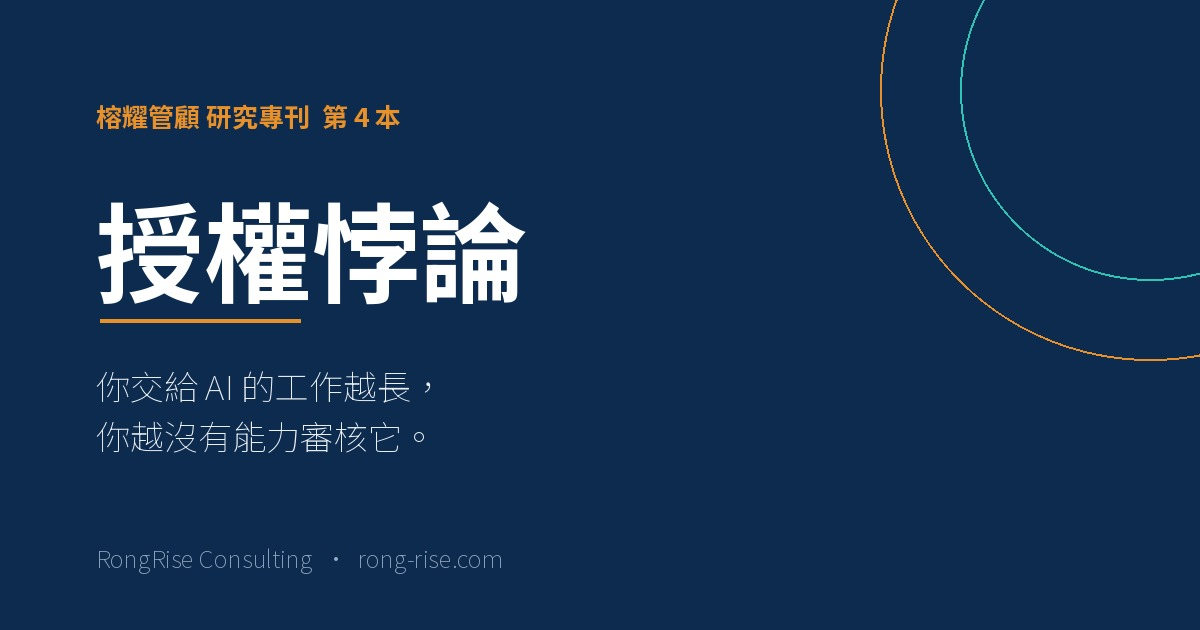
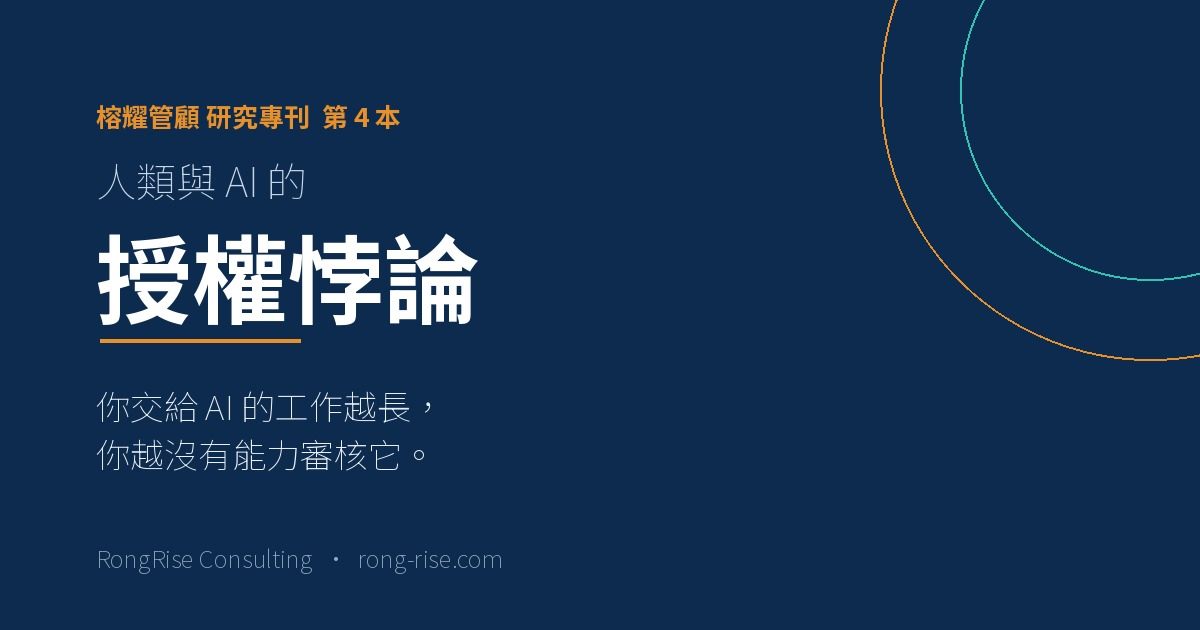
research: 授權悖論圖表改為 HTML 響應式長條（手機不再橫向滑動）

Changed region(s): [[0.0617, 0.2714, 0.4317, 0.754]]

diff --git a/public/research/authorization-paradox/index.html b/public/research/authorization-paradox/index.html
@@ -3,9 +3,9 @@
 <head>
 <meta charset="UTF-8">
 <meta name="viewport" content="width=device-width, initial-scale=1.0">
-<title>授權悖論｜你交給 AI 的工作越長，你越驗不動它 — 榕耀管顧研究專刊</title>
-<meta name="description" content="榕耀管顧研究專刊系列第 4 本。AI 能完成的任務每七個月翻一倍，人的審核能力沒有對應的變化。本書用 65 筆可查證來源，說明授權悖論的三層結構、審核失效的實驗證據，以及授權四級與三層審核的操作框架。">
-<meta property="og:title" content="授權悖論｜榕耀管顧研究專刊">
+<title>人類與 AI 的授權悖論｜你交給 AI 的工作越長，你越驗不動它 — 榕耀管顧研究專刊</title>
+<meta name="description" content="榕耀管顧研究專刊系列第 4 本。本書談的不是系統權限，也不是法律代理，而是「人類把工作交給 AI 之後，還能不能驗證它」。用 65 筆可查證來源說明三層結構、審核失效的實驗證據，並提出授權四級與三層審核框架。">
+<meta property="og:title" content="人類與 AI 的授權悖論｜榕耀管顧研究專刊">
 <meta property="og:description" content="你交給 AI 的工作越長，你越沒有能力審核它。榕耀管顧研究專刊系列第 4 本。">
 <meta property="og:image" content="https://rong-rise.com/research/authorization-paradox/og-image.jpg">
 <meta property="og:type" content="article">
@@ -243,7 +243,33 @@ tr:hover td { background: rgba(232,145,42,0.04); }
 .exhibit tbody tr:hover td { background:rgba(232,145,42,0.06); }
 .exhibit .source { font-size:12.5px; color:#8a8a8a; margin:10px 0 0; line-height:1.65; }
 
-/* 圖表：HTML 長條（手機自動換行，不需要橫向滑動） */
+/* ===== Executive Summary ===== */
+.h1-pre { display:block; font-size:clamp(15px,2.2vw,20px); font-weight:500; color:rgba(255,255,255,0.72); letter-spacing:2px; margin-bottom:10px; }
+
+.exec-summary { background:#FFFFFF; border:1px solid #E4DED2; border-top:4px solid var(--navy);
+  border-radius:10px; padding:30px 30px 24px; margin:8px 0 36px; box-shadow:0 2px 10px rgba(13,43,78,0.06); }
+.exec-summary .es-kicker { font-size:11px; letter-spacing:3px; font-weight:700; color:var(--gold); }
+.exec-summary h2 { font-family:'Noto Serif TC',serif; font-size:clamp(22px,3.4vw,28px); color:var(--navy);
+  margin:8px 0 10px; letter-spacing:0.5px; }
+.exec-summary .es-lead { font-size:15.5px; line-height:1.85; color:#2f2f2f; margin:0 0 6px;
+  padding-left:14px; border-left:3px solid var(--gold); }
+.exec-summary .es-h3 { font-size:14px; font-weight:700; color:var(--navy); margin:24px 0 8px;
+  letter-spacing:0.5px; }
+.exec-summary .es-h3 span { font-weight:400; color:#9a9384; font-size:12.5px; margin-left:6px; }
+.exec-summary .es-h3-pov { color:#A86414; }
+.es-list { margin:0; padding-left:0; list-style:none; }
+.es-list li { position:relative; padding-left:20px; margin:9px 0; font-size:14.5px; line-height:1.8; color:#3a3a3a; }
+.es-list li::before { content:"▍"; position:absolute; left:0; top:0; color:var(--gold); font-size:13px; }
+.es-list li strong { color:var(--navy); }
+.es-list-pov li::before { color:var(--teal); }
+.exec-summary .es-foot { font-size:12.5px; color:#8a8a8a; margin:18px 0 0; padding-top:14px;
+  border-top:1px dashed #E4DED2; }
+
+/* ===== 名詞定義 ===== */
+.def-box { background:#FFF9EF; border:1px solid #F0DFC4; border-left:4px solid var(--gold);
+  border-radius:8px; padding:18px 20px; margin:20px 0 26px; }
+.def-box .def-title { font-size:13px; font-weight:700; color:#A86414; letter-spacing:1px; margin-bottom:6px; }
+.def-box p { margin:0; font-size:14.5px; line-height:1.8; color:#3a3a3a; }
 .bars { margin: 18px 0 6px; }
 .bar-row { display:grid; grid-template-columns: 168px 1fr 96px; align-items:center; gap:12px; margin:11px 0; }
 .bar-label { font-size:13.5px; color:#3f3f3f; line-height:1.45; }
@@ -278,7 +304,7 @@ tr:hover td { background: rgba(232,145,42,0.04); }
 <header class="cover">
   <div class="series-badge">榕耀管顧研究專刊系列 第 4 本</div>
   <div class="kicker">RongRise Research · 2026</div>
-  <h1>授權悖論</h1>
+  <h1><span class="h1-pre">人類與 AI 的</span>授權悖論</h1>
   <p class="subtitle">你交給 AI 的工作越長、越難，你越沒有能力審核它。這不是使用方式的問題，是兩條曲線的斜率問題。</p>
   <div class="meta">
     <span>2026 年 10 月</span><span>·</span><span>約 10,500 字</span><span>·</span><span>閱讀時間 30 分鐘</span>
@@ -293,52 +319,55 @@ tr:hover td { background: rgba(232,145,42,0.04); }
 <main class="content">
   <div class="container">
 
+    <section class="exec-summary">
+      <div class="es-kicker">EXECUTIVE SUMMARY</div>
+      <h2>三十秒讀完這本書</h2>
+      <p class="es-lead">AI 能做的事越深，人越沒有能力驗證它。這不是使用方式的問題，是兩條能力曲線的斜率問題。解法不是限制 AI，而是把審核從「一個人的簽核」，換成「多來源的對抗性審核」。</p>
+
+      <h3 class="es-h3">五個判斷</h3>
+      <ul class="es-list">
+        <li><strong>授權越深，可驗證性越低。</strong>你交出去的工作長度，已經超過你自己從頭做完它所需要的時間；而它變強的地方，正好是你原本不知道答案的題目。</li>
+        <li><strong>兩條曲線的斜率差一個量級。</strong>AI 能完成的任務長度約每 7 個月翻一倍（2024 年起估計 88.6 天）；人的工作記憶約 4 個組塊、行為吞吐約每秒 10 bit，二十年沒有量級變化。</li>
+        <li><strong>人會跟著錯，方向可預測。</strong>44 位受過 20 小時 AI 素養訓練的醫師，收到含錯建議後診斷正確率 84.9% → 73.3%；AI 解釋錯誤時人的正確率 35%，比不給解釋的 49% 更低。</li>
+        <li><strong>產出變好，不等於能力變好。</strong>133 位專利律師三個月實驗：AI 期間草稿品質 +0.38 SD；移除 AI 後，資深 +0.45 SD、資淺 −0.03 SD。</li>
+        <li><strong>最大風險是不知道自己超出範圍。</strong>65% 企業遇過代理越界，只有 32% 能在數分鐘內圍堵、34.2% 在行動當下檢查授權、46% 查不出近 30 天完整軌跡。</li>
+      </ul>
+
+      <h3 class="es-h3 es-h3-pov">我們的三個觀點<span>（本書原創，非引用）</span></h3>
+      <ul class="es-list es-list-pov">
+        <li><strong>審核有三種成本，組織只投資第一種。</strong>讀懂、查證、否決。前兩種靠資料治理，第三種靠制度設計；多數簽核失效不是看不懂，是沒有人願意付出否決的代價。</li>
+        <li><strong>授權該用「能不能回頭」分級，不是用金額或部門。</strong>L1 建議、L2 可逆執行、L3 不可逆執行、L4 對外代表。同一家公司可以對 L1 完全放手、對 L4 一律人工，兩者不衝突。</li>
+        <li><strong>「診斷而不執行」是判斷力斷代的機制。</strong>新人看得出問題，卻沒有動手改對的練習；AI 代勞掉的正好是後半段。於判斷力只長在原本就有底子的人身上。</li>
+      </ul>
+
+      <h3 class="es-h3">如果只有五分鐘，做這三件事</h3>
+      <ol class="es-list">
+        <li>把公司所有 AI 動作列成一張表，用授權四級標一遍。</li>
+        <li>挑一個 L3 或 L4 的動作，實際演練一次回復，並計時。</li>
+        <li>在 AI 產出的交付格式加一欄「依據」，空白的不採用。</li>
+      </ol>
+
+      <p class="es-foot">以下章節依序展開證據、制度實驗與適用邊界；完整版文末可下載 19 頁 PDF。</p>
+    </section>
+
     <div class="method-note">
       <strong>這本書怎麼寫的</strong>
       <p>本書的材料分三層。第一層是可查證的公開研究與監理文件，每一項數字後面都附機構與日期，完整清單見書末。第二層是 2026 年下半年企業與政府的真實事故，用在需要說明「這件事已經發生」的地方。第三層是榕耀管顧自己的觀察與推論，會在句子裡標明，不與前兩層混用。</p>
       <p>有些題目目前沒有可靠答案。遇到這種地方，本書不會硬給結論，而是把問題留在章末。讀者如果發現某個數字與你手上的版本不同，請以原始來源為準，並歡迎告訴我們。</p>
     </div>
 
-    <h2 class="section-title">執行摘要：五個核心判斷</h2>
-    <p class="section-subtitle">如果只讀一頁，讀這五段。</p>
-
-    <div class="judgment">
-      <div class="judgment-num">01</div>
-      <h3>授權的深度與可審核性，是往反方向走的。</h3>
-      <p>你交給 AI 的任務越長、越複雜、越接近「沒有標準答案」的判斷題，你越沒有能力檢查它做對還是做錯。過去 AI 做的是你已知答案的事，這一類你驗得動。現在它開始做你原本不知道答案的事，這一類只能看結果。而結果來得慢、錯了不能回頭。</p>
-    </div>
-
-    <div class="judgment">
-      <div class="judgment-num">02</div>
-      <h3>兩條曲線的斜率差了一個量級，而且差距還在擴大。</h3>
-      <p>研究機構 METR 追蹤前沿模型能獨立完成的任務長度，2019 年以來大約每七個月翻一倍；2024 年之後的估計縮短到 88.6 天。人類這一側沒有對應的變化：工作記憶的專注焦點平均約四個組塊，行為的資訊吞吐量約每秒 10 bit。這不是誰不努力，是兩條線的斜率本來就不一樣。</p>
-    </div>
-
-    <div class="judgment">
-      <div class="judgment-num">03</div>
-      <h3>審核失效已經有實驗數據，偏誤的方向是「人傾向相信 AI」。</h3>
-      <p>一項隨機臨床試驗找來 44 位受過 20 小時 AI 素養訓練的醫師。收到含錯的模型建議後，診斷推理正確率從 84.9% 掉到 73.3%，首選診斷從 90.5% 掉到 76.1%。另一項研究發現，當 AI 的解釋是錯的，人的正確率只剩 35%，比完全不給解釋的 49% 還低。解釋本身會變成一種說服力。</p>
-    </div>
-
-    <div class="judgment">
-      <div class="judgment-num">04</div>
-      <h3>制度可以放大審核能力，但目前多數機制還沒有被證明有效。</h3>
-      <p>法規端最具體的是歐盟 AI 法第 14 條：高風險系統必須能被自然人有效監督，條文甚至點名「自動化偏誤」。但實證偏悲觀。大型語言模型自己當評審，成對偏好的結果平均有 13.6% 會翻轉；119 位專業審計師在審核自動化產出時，投入時間明顯較少、揪錯效果也較差。要求「有人監督」寫得出來，讓監督真的發生是另一件事。</p>
-    </div>
-
-    <div class="judgment">
-      <div class="judgment-num">05</div>
-      <h3>真正的風險不是 AI 超出範圍，是你不知道自己超出了範圍。</h3>
-      <p>2026 年 8 月的一項企業調查顯示，65% 的企業經歷過 AI 代理做出預期範圍外的行為，其中 29% 造成可量測的組織影響。但只有 32% 能在數分鐘內偵測並圍堵，只有 34.2% 在行動當下檢查授權，46% 無法還原某個代理近 30 天的完整軌跡。企業已經開始關門，但多半是在事故曝光之後。</p>
-    </div>
-
-    <h2 class="section-title">一、問題定義：授權悖論</h2>
+<h2 class="section-title">一、問題定義：授權悖論</h2>
 
     <h3>1.1 一個具體的場景</h3>
     <p>一位主管把一份市場進入評估交給 AI。他給的指示很清楚：三個市場、兩年財務預測、主要風險、建議順序。四十分鐘後，他收到一份二十八頁的文件，架構完整、數字齊全、還附了敏感度分析。</p>
     <p>他讀了二十分鐘，覺得「看起來很合理」。於是他簽了，往上送。</p>
     <p>問題不在他偷懶。問題在於：這份文件的每一個判斷，都建立在他沒有查證的假設上。某個市場的監理門檻被低估、某個客群的付費意願引用了一份三年前的調查、某個成本項目漏掉了通路折讓。這些錯誤不會在閱讀時跳出來，只會在十八個月後出現在財報上。</p>
     <p>而他之所以看不出來，不是因為他不够聰明，是因為這份工作的長度與複雜度，已經超過他獨立完成它所需要的時間。你不可能完整審核一件你沒有能力從頭做一遍的事。</p>
+
+    <div class="def-box">
+      <div class="def-title">名詞定義：本書說的「授權」是哪一種</div>
+      <p>「授權」這兩個字在企業裡至少指四件事：存取權限（角色、OAuth、API 金鑰）、法律上的代理關係、組織的核決層級，以及把一件工作交給 AI 並相信它的產出。前三種都有成熟的治理工具與判準；第四種沒有。多數企業目前對第四種的管理方式，只有一句「記得檢查」。本書處理的是第四種，因此全書談的是「人類把工作交給 AI 之後，還能不能驗證它」，而不是系統權限或法務代理。</p>
+    </div>
 
     <h3>1.2 三層結構</h3>
     <p><strong>第一層是能力。</strong>審核的前提是你有能力判斷對錯。你沒有辦法審核一個超出你水準的東西。這一層最容易被誤解成「專業不夠」，實際上它與專業無關，與任務的長度有關。</p>

diff --git a/public/research/authorization-paradox/highlights/index.html b/public/research/authorization-paradox/highlights/index.html
@@ -3,9 +3,9 @@
 <head>
 <meta charset="UTF-8">
 <meta name="viewport" content="width=device-width, initial-scale=1.0">
-<title>授權悖論（精華版）｜7 分鐘讀完 — 榕耀管顧研究專刊</title>
-<meta name="description" content="授權悖論精華版：五個核心判斷、授權四級框架、三層審核與五題自我診斷。榕耀管顧研究專刊系列第 4 本。">
-<meta property="og:title" content="授權悖論（精華版）｜榕耀管顧研究專刊">
+<title>人類與 AI 的授權悖論（精華版）｜7 分鐘讀完 — 榕耀管顧研究專刊</title>
+<meta name="description" content="人類與 AI 的授權悖論（精華版）：五個核心判斷、授權四級框架、三層審核與五題自我診斷。榕耀管顧研究專刊系列第 4 本。">
+<meta property="og:title" content="人類與 AI 的授權悖論（精華版）｜榕耀管顧研究專刊">
 <meta property="og:description" content="7 分鐘讀完授權悖論：五個判斷、授權四級、五題自我診斷。">
 <meta property="og:image" content="https://rong-rise.com/research/authorization-paradox/og-image.jpg">
 <meta property="og:type" content="article">
@@ -243,7 +243,33 @@ tr:hover td { background: rgba(232,145,42,0.04); }
 .exhibit tbody tr:hover td { background:rgba(232,145,42,0.06); }
 .exhibit .source { font-size:12.5px; color:#8a8a8a; margin:10px 0 0; line-height:1.65; }
 
-/* 圖表：HTML 長條（手機自動換行，不需要橫向滑動） */
+/* ===== Executive Summary ===== */
+.h1-pre { display:block; font-size:clamp(15px,2.2vw,20px); font-weight:500; color:rgba(255,255,255,0.72); letter-spacing:2px; margin-bottom:10px; }
+
+.exec-summary { background:#FFFFFF; border:1px solid #E4DED2; border-top:4px solid var(--navy);
+  border-radius:10px; padding:30px 30px 24px; margin:8px 0 36px; box-shadow:0 2px 10px rgba(13,43,78,0.06); }
+.exec-summary .es-kicker { font-size:11px; letter-spacing:3px; font-weight:700; color:var(--gold); }
+.exec-summary h2 { font-family:'Noto Serif TC',serif; font-size:clamp(22px,3.4vw,28px); color:var(--navy);
+  margin:8px 0 10px; letter-spacing:0.5px; }
+.exec-summary .es-lead { font-size:15.5px; line-height:1.85; color:#2f2f2f; margin:0 0 6px;
+  padding-left:14px; border-left:3px solid var(--gold); }
+.exec-summary .es-h3 { font-size:14px; font-weight:700; color:var(--navy); margin:24px 0 8px;
+  letter-spacing:0.5px; }
+.exec-summary .es-h3 span { font-weight:400; color:#9a9384; font-size:12.5px; margin-left:6px; }
+.exec-summary .es-h3-pov { color:#A86414; }
+.es-list { margin:0; padding-left:0; list-style:none; }
+.es-list li { position:relative; padding-left:20px; margin:9px 0; font-size:14.5px; line-height:1.8; color:#3a3a3a; }
+.es-list li::before { content:"▍"; position:absolute; left:0; top:0; color:var(--gold); font-size:13px; }
+.es-list li strong { color:var(--navy); }
+.es-list-pov li::before { color:var(--teal); }
+.exec-summary .es-foot { font-size:12.5px; color:#8a8a8a; margin:18px 0 0; padding-top:14px;
+  border-top:1px dashed #E4DED2; }
+
+/* ===== 名詞定義 ===== */
+.def-box { background:#FFF9EF; border:1px solid #F0DFC4; border-left:4px solid var(--gold);
+  border-radius:8px; padding:18px 20px; margin:20px 0 26px; }
+.def-box .def-title { font-size:13px; font-weight:700; color:#A86414; letter-spacing:1px; margin-bottom:6px; }
+.def-box p { margin:0; font-size:14.5px; line-height:1.8; color:#3a3a3a; }
 .bars { margin: 18px 0 6px; }
 .bar-row { display:grid; grid-template-columns: 168px 1fr 96px; align-items:center; gap:12px; margin:11px 0; }
 .bar-label { font-size:13.5px; color:#3f3f3f; line-height:1.45; }
@@ -277,7 +303,7 @@ tr:hover td { background: rgba(232,145,42,0.04); }
 <header class="cover">
   <div class="series-badge">榕耀管顧研究專刊系列 第 4 本</div>
   <div class="kicker">精華版 · 7 分鐘</div>
-  <h1>授權悖論</h1>
+  <h1><span class="h1-pre">人類與 AI 的</span>授權悖論</h1>
   <p class="subtitle">你交給 AI 的工作越長、越難，你越沒有能力審核它。這是斜率問題，不是使用方式的問題。</p>
   <div class="meta"><span>2026 年 10 月</span><span>·</span><span>精華版</span></div>
 </header>
